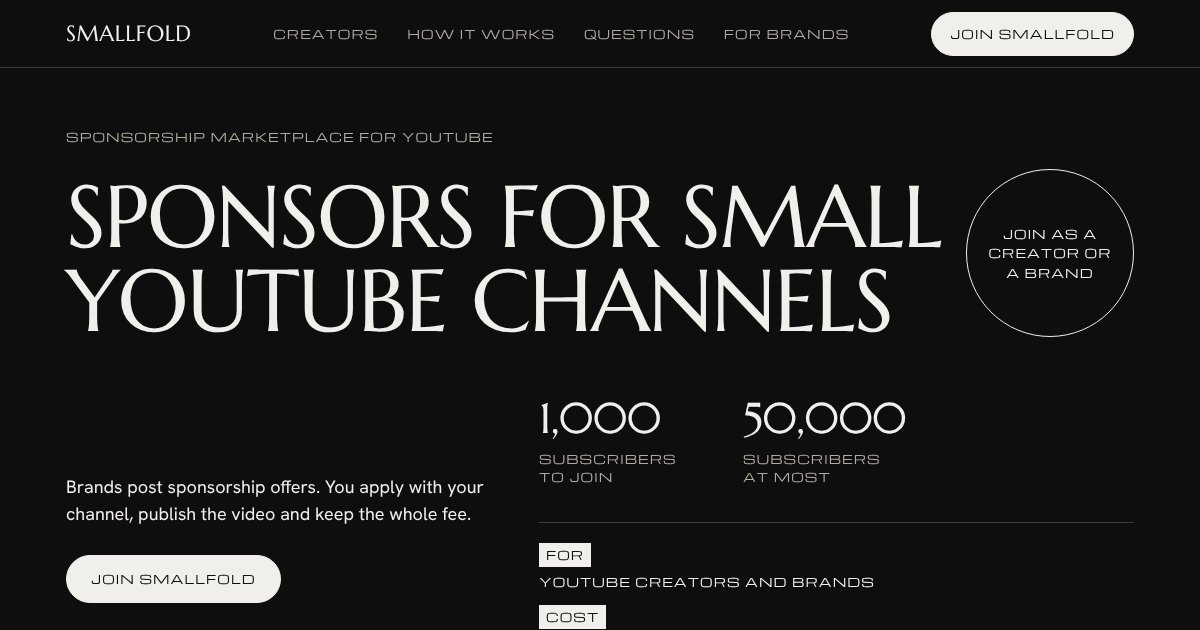
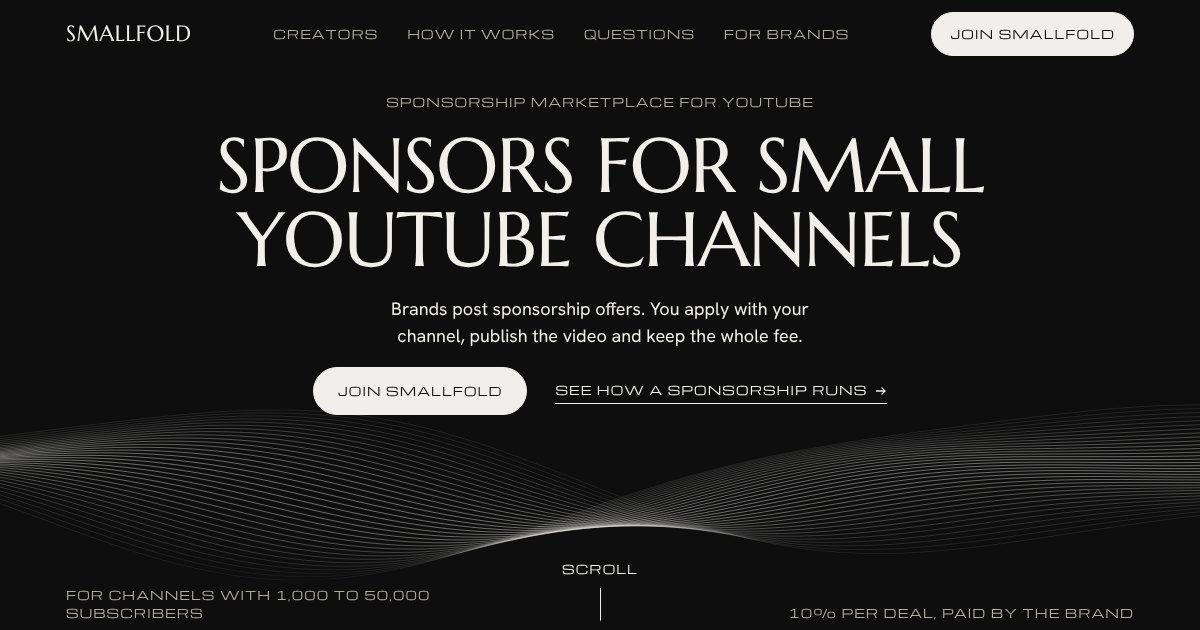
Make the first screen minimal, with a flowing line animation
The opening screen is now one headline, one sentence and two actions over
a slow ribbon of lines. The example sponsorships table moves just below
it, and each block further down rises as it comes into view.

Claude-Session: https://claude.ai/code/session_01C9y4eMVXke5ZdWtuD7G568

diff --git a/index.html b/index.html
@@ -75,7 +75,8 @@ a:hover > .arrow, button:hover > .arrow { transform: translateX(3px); }
 .skip:focus { top: 10px; }
 
 /* header */
-.nav { position: fixed; inset: 0 0 auto; z-index: 20; height: var(--nav); border-bottom: 1px solid var(--line); }
+.nav { position: fixed; inset: 0 0 auto; z-index: 20; height: var(--nav); border-bottom: 1px solid var(--line); transition: background-color .5s var(--ease), border-color .5s var(--ease); }
+.js .nav.is-top { background-color: transparent; border-bottom-color: transparent; }
 .nav__bar { height: 100%; display: flex; align-items: center; gap: 32px; }
 .nav__logo { font: 400 22px/1 var(--font-display); text-transform: uppercase; letter-spacing: .02em; text-decoration: none; min-height: 44px; display: inline-flex; align-items: center; }
 .nav__links { display: flex; gap: clamp(16px, 2.4vw, 36px); margin-inline: auto; }
@@ -95,19 +96,35 @@ a:hover > .arrow, button:hover > .arrow { transform: translateX(3px); }
 }
 @media (max-width: 420px) { .nav__long { display: none; } .nav__logo { font-size: 19px; } .nav .btn { padding: 0 14px; } }
 
-/* hero */
-.hero { padding-top: calc(var(--nav) + clamp(32px, 5vw, 64px)); padding-bottom: 0; overflow: hidden; }
-.hero__top { position: relative; display: grid; gap: clamp(20px, 2.4vw, 32px); }
-.stats { display: flex; gap: clamp(24px, 4vw, 64px); }
-.hero__side { display: grid; gap: clamp(24px, 3vw, 40px); padding-bottom: 6px; }
-.stat__num { font: 400 clamp(34px, 3.6vw, 56px)/1 var(--font-display); letter-spacing: -0.02em; white-space: nowrap; }
-.stat .label { display: block; margin-top: 10px; max-width: 13em; }
-.hero__mid { display: grid; grid-template-columns: minmax(0, 5fr) minmax(0, 7fr); gap: clamp(24px, 4vw, 64px); align-items: end; margin-top: clamp(32px, 4.5vw, 64px); }
-.hero__actions { display: flex; flex-wrap: wrap; align-items: center; gap: 12px 28px; margin-top: 28px; }
-.facts { display: flex; flex-wrap: wrap; gap: 14px clamp(24px, 4vw, 56px); padding-top: 20px; border-top: 1px solid var(--line); }
-.facts li { display: grid; gap: 6px; }
-.facts .tag { justify-self: start; }
-.hero__stage { position: relative; margin-top: clamp(40px, 5vw, 72px); }
+/* hero: one screen with a headline, a sentence and two actions; the ribbon of lines moves behind them */
+.hero { overflow: hidden; }
+.hero__screen { position: relative; min-height: 100vh; min-height: 100svh; display: grid; grid-template-rows: minmax(0, 1fr) auto; padding-top: var(--nav); }
+.hero__flow { position: absolute; inset: 0; width: 100%; height: 100%; pointer-events: none;
+  -webkit-mask-image: linear-gradient(to bottom, #000 0, #000 84%, transparent 97%); mask-image: linear-gradient(to bottom, #000 0, #000 84%, transparent 97%); }
+.hero__center { position: relative; display: grid; justify-items: center; align-content: center; text-align: center; gap: clamp(18px, 2.8vh, 30px); padding-block: clamp(20px, 4vh, 48px) clamp(120px, 23vh, 230px); }
+.d-hero { font-size: clamp(40px, min(7.6vw, 12.2vh), 116px); max-width: 11.5em; }
+.hero h1 .w { display: inline-block; overflow: hidden; vertical-align: top; padding: .08em .03em .12em; margin: -.08em -.03em -.12em; }
+.hero h1 .w > span { display: inline-block; }
+.hero__center .lead { max-width: 30em; text-wrap: balance; }
+.hero__actions { display: flex; flex-wrap: wrap; align-items: center; justify-content: center; gap: 12px 28px; }
+.hero__foot { position: relative; display: grid; grid-template-columns: minmax(0, 1fr) auto minmax(0, 1fr); align-items: end; gap: 12px 24px; padding-bottom: 20px; color: var(--muted); }
+.hero__foot > :last-child { text-align: right; }
+.scroll { display: inline-flex; flex-direction: column; align-items: center; gap: 10px; min-width: 44px; min-height: 44px; text-decoration: none; color: var(--fg); }
+.scroll i { position: relative; width: 1px; height: 34px; background: var(--line); overflow: hidden; }
+.scroll i::after { content: ""; position: absolute; inset: 0; background: var(--fg); transform: translateY(-101%); animation: drip 2.6s var(--ease) infinite; }
+@keyframes drip { 0% { transform: translateY(-101%); } 55% { transform: translateY(0); } 100% { transform: translateY(101%); } }
+.hero__stage { position: relative; padding-top: clamp(48px, 7vw, 104px); scroll-margin-top: var(--nav); }
+@media (max-width: 1000px) { .hero__foot .long { display: none; } }
+@media (max-width: 900px) {
+  .hero__foot { grid-template-columns: minmax(0, 1fr); justify-items: center; text-align: center; gap: 6px; padding-bottom: 18px; }
+  .hero__foot > :last-child { text-align: center; }
+  .scroll { display: none; }
+}
+@media (max-width: 700px) {
+  .hero__center { padding-bottom: clamp(110px, 21vh, 190px); }
+  .d-hero { font-size: clamp(36px, 11.3vw, 64px); }
+}
+@media (max-height: 620px) { .hero__center { padding-bottom: 96px; gap: 16px; } }
 .window { border: 1px solid var(--line-on-cream); border-bottom: 0; border-radius: 14px 14px 0 0; background: var(--cream); color: var(--ink); overflow: hidden; }
 .window__bar { display: flex; align-items: center; gap: 14px; padding: 14px 20px; border-bottom: 1px solid var(--line-on-cream); }
 .window__dots { display: inline-flex; gap: 6px; } .window__dots i { width: 9px; height: 9px; border-radius: 50%; background: rgba(14, 14, 14, .22); }
@@ -122,16 +139,6 @@ a:hover > .arrow, button:hover > .arrow { transform: translateX(3px); }
 .chip { display: inline-block; padding: 4px 10px; border: 1px solid rgba(14, 14, 14, .45); border-radius: 999px; font: 400 12px/1.4 var(--font-label); text-transform: uppercase; letter-spacing: .04em; white-space: nowrap; }
 .chip--on { background: var(--ink); color: var(--cream); border-color: var(--ink); }
 .table-scroll { overflow-x: auto; }
-.circle { position: absolute; right: 0; bottom: 6px; width: 168px; height: 168px; border-radius: 50%; border: 1px solid var(--cream); background: var(--ink); color: var(--cream);
-  display: grid; place-items: center; text-align: center; text-decoration: none; padding: 20px; font: 400 12px/1.6 var(--font-label); text-transform: uppercase; letter-spacing: .09em;
-  transition: background-color .3s var(--ease), color .3s var(--ease), transform .4s var(--ease); }
-@media (hover: hover) { .circle:hover { background: var(--cream); color: var(--ink); transform: rotate(-6deg); } }
-.hero__top h1 { max-width: calc(100% - 190px); }
-@media (max-width: 980px) {
-  .hero__mid { grid-template-columns: minmax(0, 1fr); }
-  .circle { display: none; }
-  .hero__top h1 { max-width: none; }
-}
 @media (max-width: 640px) {
   .rows .hide-s { display: none; }
   .rows { font-size: 14px; }
@@ -185,12 +192,6 @@ a:hover > .arrow, button:hover > .arrow { transform: translateX(3px); }
 .offer .chip { justify-self: start; padding: 9px 20px; }
 @media (max-width: 520px) { .offer__rows > div { grid-template-columns: minmax(0, 1fr); } }
 
-/* the range, set large */
-.range { text-align: left; }
-.range__num { font: 400 clamp(34px, 11.6vw, 196px)/.9 var(--font-display); letter-spacing: -0.035em; white-space: nowrap; }
-.range__foot { display: flex; flex-wrap: wrap; justify-content: space-between; gap: 20px 48px; margin-top: clamp(24px, 3vw, 40px); padding-top: 20px; border-top: 1px solid var(--line); }
-.range__foot p { max-width: 30em; }
-
 /* questions */
 .faq { display: grid; }
 .faq__item { display: grid; grid-template-columns: minmax(0, 5fr) minmax(0, 7fr); gap: 8px clamp(24px, 4vw, 64px); padding: 26px 0; border-top: 1px solid var(--line); }
@@ -233,10 +234,17 @@ fieldset.field { border: 0; margin: 0; padding: 0; min-width: 0; }
 .footer__links a:hover { color: var(--fg); }
 .footer__legal { margin-top: 28px; padding-top: 20px; border-top: 1px solid var(--line); }
 
-/* the hero arrives once on load; everything is readable without it */
+/* motion: the first screen arrives once on load, and each block below rises as it comes into view.
+   Everything is readable without it: these rules need the js class, and reduced motion turns them off. */
 @media (prefers-reduced-motion: no-preference) {
-  .js .hero [data-in] { opacity: 0; transform: translateY(18px); }
-  .js.is-in .hero [data-in] { opacity: 1; transform: none; transition: opacity .8s var(--ease), transform .9s var(--ease); transition-delay: calc(var(--i, 0) * 90ms); }
+  .js .hero [data-in] { opacity: 0; transform: translateY(22px); }
+  .js.is-in .hero [data-in] { opacity: 1; transform: none; transition: opacity 1.1s var(--ease), transform 1.3s var(--ease); transition-delay: calc(var(--i, 0) * 95ms); }
+  .js .hero h1 .w > span { transform: translateY(115%); }
+  .js.is-in .hero h1 .w > span { transform: none; transition: transform 1.35s var(--ease); transition-delay: calc(140ms + var(--i, 0) * 95ms); }
+  .js .hero__flow { opacity: 0; }
+  .js.is-in .hero__flow { opacity: 1; transition: opacity 1.6s ease; }
+  .rv { opacity: 0; transform: translateY(34px); transition: opacity 1.1s var(--ease), transform 1.3s var(--ease); transition-delay: calc(var(--d, 0) * 95ms); }
+  .rv.is-seen { opacity: 1; transform: none; }
 }
 @media (prefers-reduced-motion: reduce) { *, *::before, *::after { transition: none !important; animation: none !important; } html { scroll-behavior: auto; } }
 </style>
@@ -263,33 +271,26 @@ fieldset.field { border: 0; margin: 0; padding: 0; min-width: 0; }
 
 <main id="main">
   <!-- HERO -->
-  <section class="section hero on-ink" id="top" aria-labelledby="hero-h">
-    <div class="wrap">
-      <div class="hero__top">
+  <section class="hero on-ink" id="top" aria-labelledby="hero-h">
+    <div class="hero__screen">
+      <canvas class="hero__flow" aria-hidden="true"></canvas>
+      <div class="wrap hero__center">
         <p class="label label--muted" data-in style="--i:0">Sponsorship marketplace for YouTube</p>
-        <h1 class="display d-xl" id="hero-h" data-in style="--i:1">Sponsors for small YouTube channels</h1>
-        <a class="circle" href="#join" data-in style="--i:2"><span>Join as a<br>creator or<br>a brand</span></a>
-      </div>
-      <div class="hero__mid">
-        <div data-in style="--i:2">
-          <p class="lead">Brands post sponsorship offers. You apply with your channel, publish the video and keep the whole fee.</p>
-          <div class="hero__actions">
-            <a class="btn" href="#join">Join Smallfold</a>
-            <a class="link" href="#steps">See how a sponsorship runs <svg class="arrow" viewBox="0 0 12 12" aria-hidden="true"><path d="M1 6h9M6.5 2.5 10 6l-3.5 3.5" fill="none" stroke="currentColor" stroke-width="1.3"/></svg></a>
-          </div>
-        </div>
-        <div class="hero__side" data-in style="--i:3">
-          <dl class="stats">
-            <div class="stat"><dt class="stat__num">1,000</dt><dd class="label label--muted">subscribers to join</dd></div>
-            <div class="stat"><dt class="stat__num">50,000</dt><dd class="label label--muted">subscribers at most</dd></div>
-          </dl>
-          <ul class="facts label">
-            <li><span class="tag">For</span><span>YouTube creators and brands</span></li>
-            <li><span class="tag">Cost</span><span>10% per deal, paid by the brand</span></li>
-          </ul>
+        <h1 class="display d-hero" id="hero-h">Sponsors for small YouTube channels</h1>
+        <script>(function(){var h=document.getElementById('hero-h'),t=h.textContent.trim();h.setAttribute('aria-label',t);h.innerHTML=t.split(/\s+/).map(function(w,i){return '<span class="w" aria-hidden="true"><span style="--i:'+i+'">'+w+'</span></span>'}).join(' ')})()</script>
+        <p class="lead" data-in style="--i:7">Brands post sponsorship offers. You apply with your channel, publish the video and keep the whole fee.</p>
+        <div class="hero__actions" data-in style="--i:9">
+          <a class="btn" href="#join">Join Smallfold</a>
+          <a class="link" href="#steps">See how a sponsorship runs <svg class="arrow" viewBox="0 0 12 12" aria-hidden="true"><path d="M1 6h9M6.5 2.5 10 6l-3.5 3.5" fill="none" stroke="currentColor" stroke-width="1.3"/></svg></a>
         </div>
       </div>
-      <div class="hero__stage" data-in style="--i:4">
+      <div class="wrap hero__foot label" data-in style="--i:12">
+        <span><span class="long">For channels with </span>1,000 to 50,000 subscribers</span>
+        <a class="scroll" href="#offers"><span>Scroll</span><i aria-hidden="true"></i></a>
+        <span>10% per deal, paid by the brand</span>
+      </div>
+    </div>
+    <div class="wrap hero__stage" id="offers">
         <div class="window" role="img" aria-label="An example of the list a creator sees in Smallfold: four open sponsorships, each with what the brand wants in the video, the publish-by date and the fee">
           <div class="window__bar" aria-hidden="true"><span class="window__dots"><i></i><i></i><i></i></span><span class="label">Example sponsorships</span></div>
           <div class="table-scroll" aria-hidden="true">
@@ -304,7 +305,6 @@ fieldset.field { border: 0; margin: 0; padding: 0; min-width: 0; }
             </table>
           </div>
         </div>
-      </div>
     </div>
   </section>
 
@@ -463,6 +463,74 @@ fieldset.field { border: 0; margin: 0; padding: 0; min-width: 0; }
 
 <style>.sr { position: absolute; width: 1px; height: 1px; overflow: hidden; clip-path: inset(50%); white-space: nowrap; }</style>
 <script>
+(function () {
+  // the ribbon: thin lines that twist and drift like a folded cloth, drawn in from the left on load.
+  // It follows the pointer a little, stops when the first screen is out of view, and is one still frame under reduced motion.
+  var cv = document.querySelector('.hero__flow');
+  if (!cv || !cv.getContext) return;
+  var ctx = cv.getContext('2d'), still = matchMedia('(prefers-reduced-motion: reduce)').matches;
+  var w = 0, h = 0, n = 0, t0 = 0, seen = true, running = false, px = .5, py = .5, tx = .5, ty = .5;
+  function ease(x) { return 1 - Math.pow(1 - x, 4); }
+  function size() {
+    var r = cv.getBoundingClientRect(), dpr = Math.min(window.devicePixelRatio || 1, 2);
+    w = r.width; h = r.height; cv.width = Math.round(w * dpr); cv.height = Math.round(h * dpr);
+    ctx.setTransform(dpr, 0, 0, dpr, 0, 0); n = w < 700 ? 22 : 34;
+    if (still || !running) draw(still ? 40000 : performance.now() - t0);
+  }
+  function draw(ms) {
+    var t = ms / 1000, grow = still ? 1 : ease(Math.min(1, t / 3.2));
+    var small = w < 700, mid = h * (small ? .825 : .775) + (py - .5) * 26, spread = Math.min(h * .16, small ? 100 : 150), amp = Math.min(h * .05, small ? 30 : 46);
+    var step = small ? 9 : 13, tail = Math.max(160, w * .22);
+    ctx.clearRect(0, 0, w, h); ctx.lineWidth = 1;
+    for (var i = 0; i < n; i++) {
+      var u = i / (n - 1), s = u - .5, first = true;
+      var reach = still ? 1 : ease(Math.max(0, Math.min(1, (t - u * .55) / 2.3))), end = (w + 30 + tail) * reach;
+      var a = .09 + .33 * Math.pow(Math.sin(u * Math.PI), 1.4);
+      if (reach < 1) {
+        var g = ctx.createLinearGradient(Math.max(0, end - tail), 0, Math.max(1, end), 0);
+        g.addColorStop(0, 'rgba(241,239,235,' + a.toFixed(3) + ')'); g.addColorStop(1, 'rgba(241,239,235,0)');
+        ctx.strokeStyle = g;
+      } else ctx.strokeStyle = 'rgba(241,239,235,' + a.toFixed(3) + ')';
+      ctx.beginPath();
+      for (var x = -20; x <= Math.min(end, w + 30); x += step) {
+        var k = x / Math.max(w, 900);
+        var y = mid + s * spread * (.3 + .7 * grow) * Math.sin(k * 4.4 + t * .2 + (px - .5) * 1.2)
+          + amp * grow * Math.sin(k * 5.2 - t * .31 + u * 1.9)
+          + amp * .42 * grow * Math.sin(k * 10.6 + t * .17 + u * 4.3 + px * 1.6);
+        if (first) { ctx.moveTo(x, y); first = false; } else ctx.lineTo(x, y);
+      }
+      ctx.stroke();
+    }
+  }
+  function loop(now) {
+    if (!seen) { running = false; return; }
+    px += (tx - px) * .035; py += (ty - py) * .035;
+    draw(now - t0); requestAnimationFrame(loop);
+  }
+  function start() { if (still || running) return; running = true; requestAnimationFrame(loop); }
+  t0 = performance.now(); size(); start();
+  addEventListener('resize', size);
+  addEventListener('pointermove', function (e) { tx = e.clientX / innerWidth; ty = e.clientY / innerHeight; }, { passive: true });
+  if ('IntersectionObserver' in window) new IntersectionObserver(function (en) { seen = en[0].isIntersecting; if (seen) start(); }).observe(cv);
+})();
+(function () {
+  // the header is clear over the first screen and takes its ground once the page moves
+  var nav = document.querySelector('.nav');
+  function top() { nav.classList.toggle('is-top', scrollY < 12); }
+  top(); addEventListener('scroll', top, { passive: true });
+
+  // each block below the first screen rises as it comes into view; without this script nothing is hidden
+  if ('IntersectionObserver' in window && !matchMedia('(prefers-reduced-motion: reduce)').matches) {
+    var seenIO = new IntersectionObserver(function (entries) {
+      entries.forEach(function (en) { if (en.isIntersecting) { en.target.classList.add('is-seen'); seenIO.unobserve(en.target); } });
+    }, { rootMargin: '0px 0px -7% 0px', threshold: .08 });
+    [].forEach.call(document.querySelectorAll('.hero__stage, .chapter, .split > *, .steps > li, .faq__item, .join > *, .footer__row, .footer__word'), function (el) {
+      var i = [].indexOf.call(el.parentNode.children, el);
+      el.style.setProperty('--d', el.matches('.steps > li, .split > *, .join > *') ? Math.min(i, 3) : 0);
+      el.classList.add('rv'); seenIO.observe(el);
+    });
+  }
+})();
 (function () {
   // the phone menu: opens under the bar, closes on any link in the bar, Escape returns to its button
   var toggle = document.querySelector('.nav__toggle'), menu = document.getElementById('menu'), bar = document.querySelector('.nav__bar');
